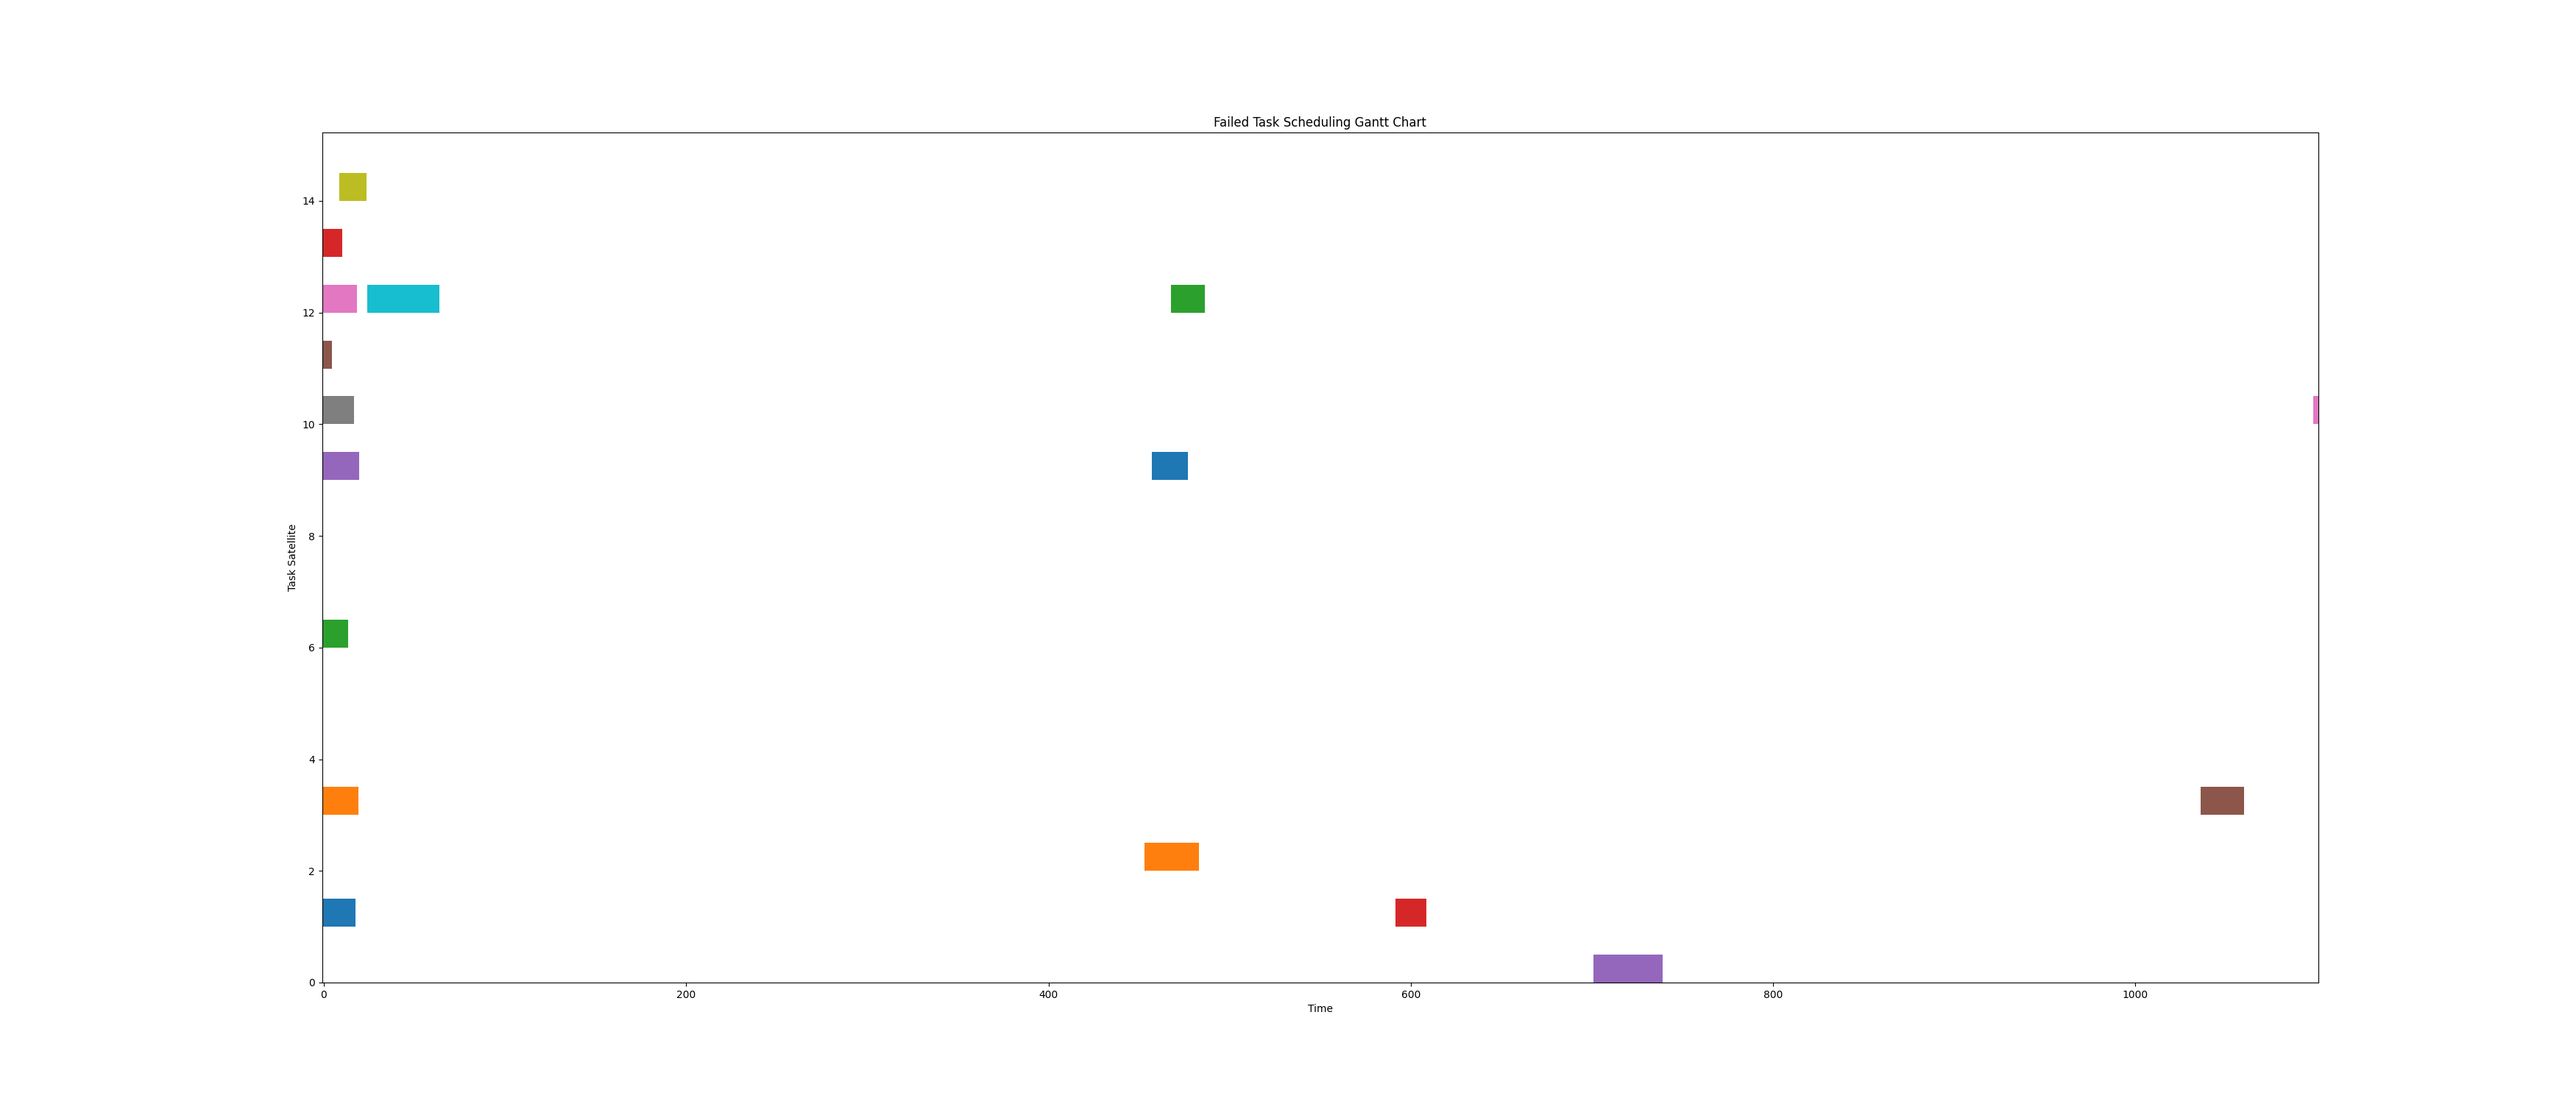
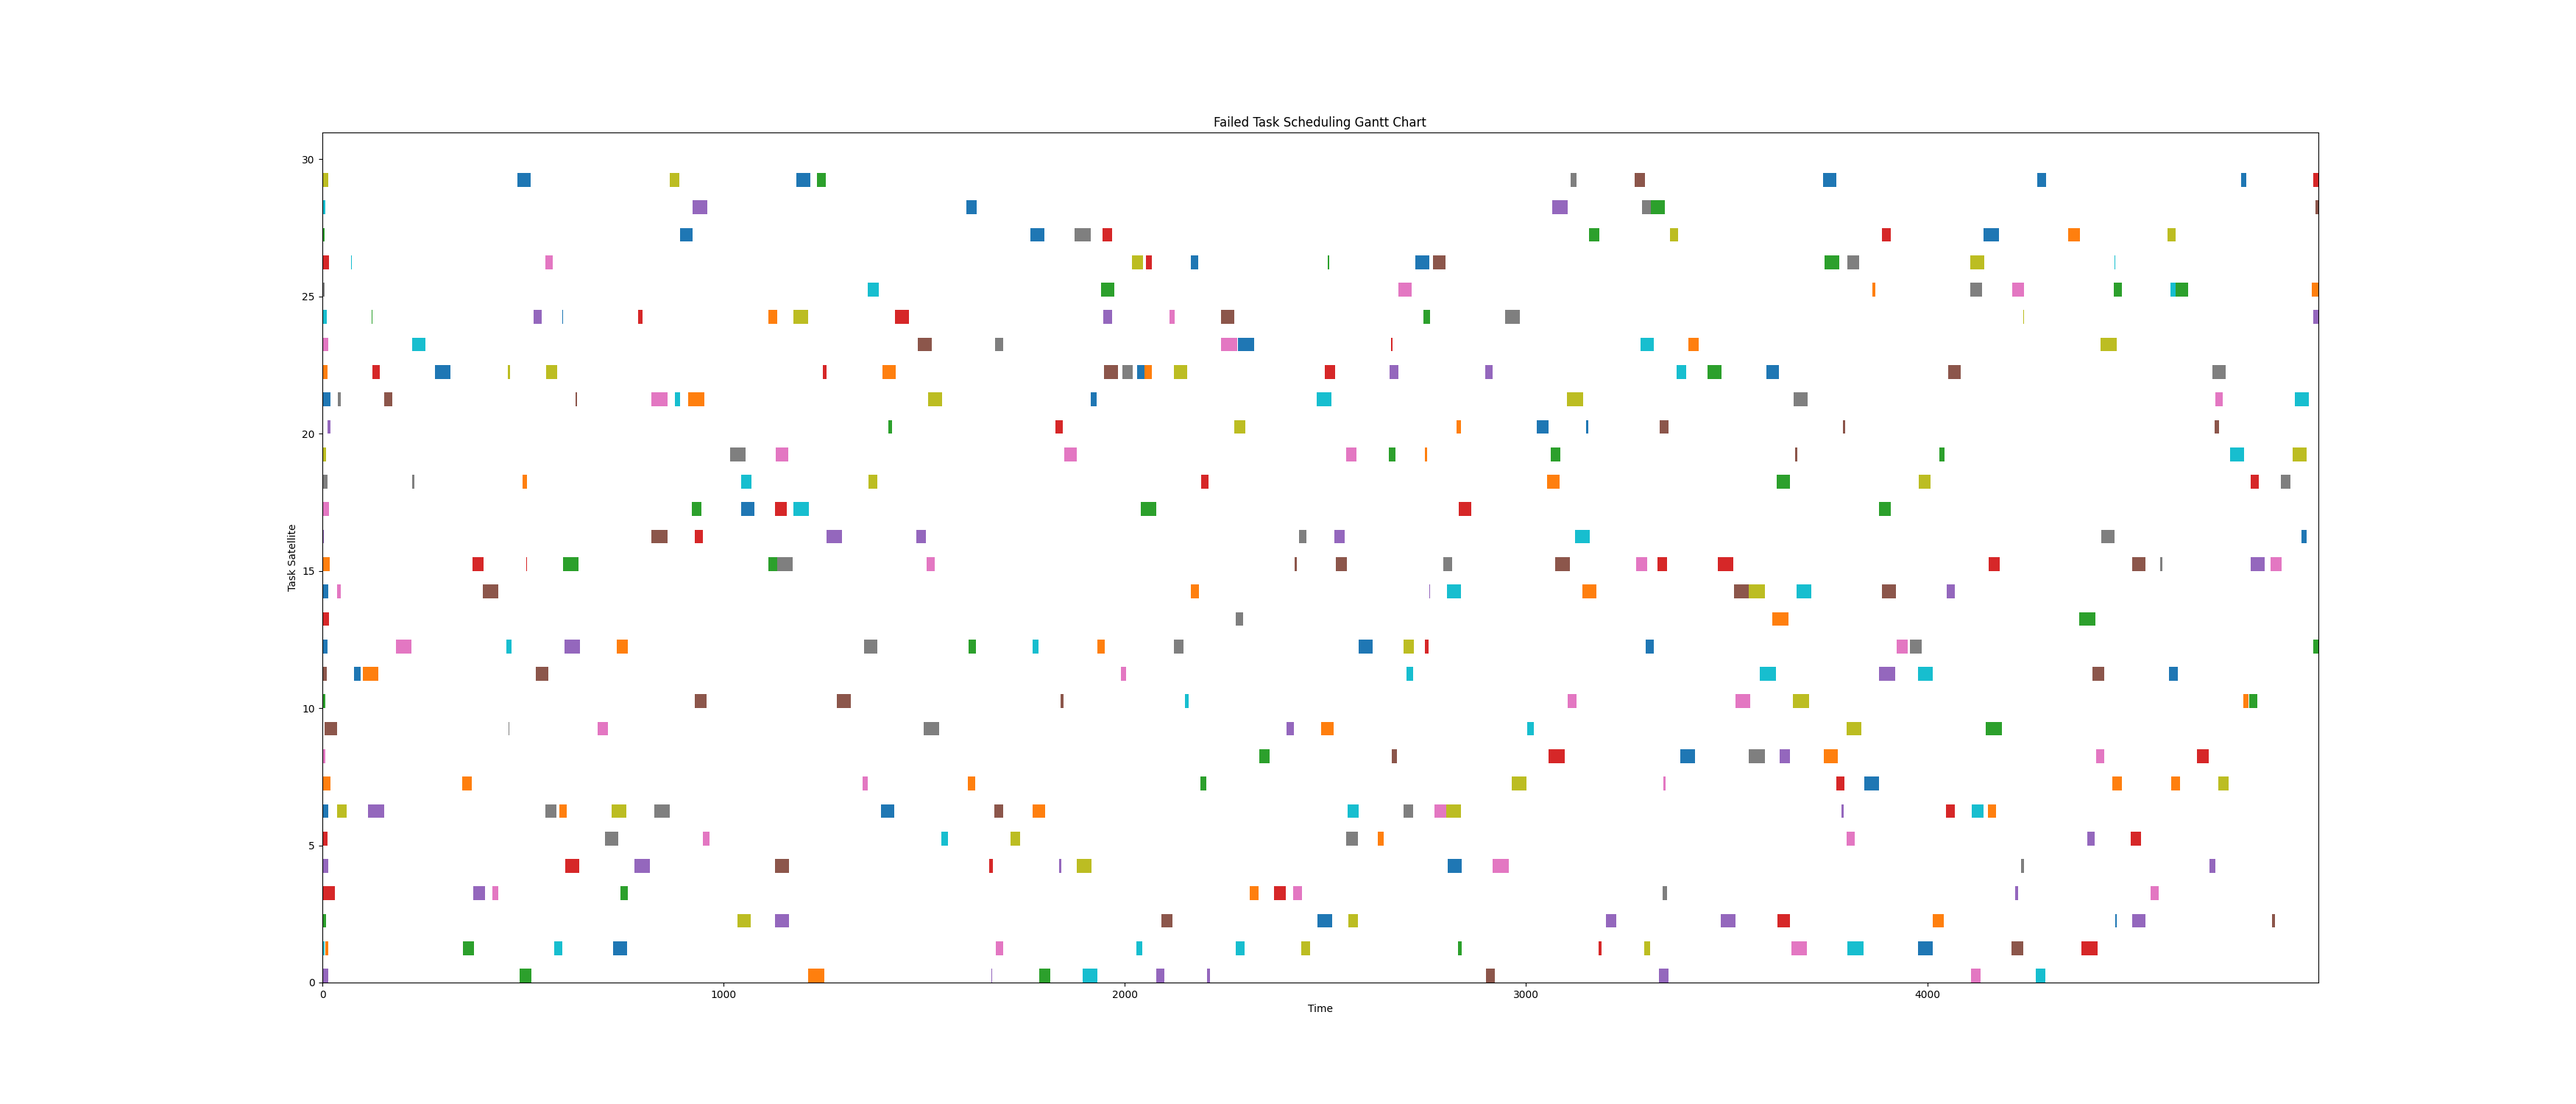
增加充电部分

diff --git a/simulator/Env.py b/simulator/Env.py
@@ -1,6 +1,7 @@
 from __future__ import annotations
 
-from random import random
+import random
+random.seed(0)
 from typing import Tuple, Dict, Any
 
 import gymnasium as gym
@@ -109,13 +110,13 @@ class SatelliteTaskSchedulingEnv(gym.Env):
             done = True
         if done:
             return np.concatenate([self.state[np.newaxis, :], self.state[np.newaxis, :]], axis=0), reward, done, True,\
-                {'reward': reward, 'is_success': success, 'priority': task.priority}
+                {'reward': reward, 'is_success': success, 'priority': task.priority, 'if_switch': if_switch}
 
         # 根据下一个task计算下一个state
         next_state = self.get_next_state()
 
         return np.concatenate([self.state[np.newaxis, :], next_state[np.newaxis, :]], axis=0), reward, done, False, \
-            {'reward': reward, 'is_success': success, 'priority': task.priority}
+            {'reward': reward, 'is_success': success, 'priority': task.priority, 'if_switch': if_switch}
 
     def reset(
             self,
@@ -152,7 +153,7 @@ class SatelliteTaskSchedulingEnv(gym.Env):
                                       'last_ts': -1})
                 else:  # random
                     satellite.append(
-                        {'E_left': random() % (self.config.INIT_ENERGY - self.config.E_MIN) + self.config.E_MIN,
+                        {'E_left': random.random() % (self.config.INIT_ENERGY - self.config.INIT_ENERGY / 2) + self.config.E_MIN,
                          'E_min': self.config.E_MIN,
                          'last_ts': -1})
             satellites.append(satellite)
@@ -187,11 +188,24 @@ class SatelliteTaskSchedulingEnv(gym.Env):
         task = self.tasks[self.cur_task]
         for i in range(self.rs_num):
             for j in range(self.beam_num):
+                # 检查是否有足够的能量
+                if self.rs_list[i][j]['E_left'] - task.energy < self.min_E:
+                    self.charge_energy(i, j, task.start_time - self.horizon_start)
+                    next_state[i][j][:] = 1
+                    continue
                 # 将不可能的时间段设为1
                 next_state[i][j][0:task.start_time - self.horizon_start] = 1
                 next_state[i][j][task.end_time - self.horizon_start:] = 1
         # next_state 是当前task所有可能执行的时间段
         return next_state
+
+    def charge_energy(self, i, j, start_time_in_horizon):
+        # 充电
+        self.rs_list[i][j]['E_left'] = self.config.INIT_ENERGY
+        # 充电时间设为30
+        charge_time = min(30, self.d_grids - start_time_in_horizon)
+        # 设置不可执行task的时间段
+        self.state[i][j][start_time_in_horizon:start_time_in_horizon + charge_time] = 1
 
     def show_info(self):
         # For Debug

diff --git a/evaluator.py b/evaluator.py
@@ -14,6 +14,7 @@ def evaluate_model(model_path):  # success rate, priority sum,
     total_reward = 0.0
     total_success = 0
     total_priority = 0
+    total_switch = 0
     total_success_priority = 0
     while True:
         action, _states = model.predict(obs, deterministic=True)
@@ -23,6 +24,7 @@ def evaluate_model(model_path):  # success rate, priority sum,
         total_reward += reward
         total_success += info['is_success']
         total_priority += info['priority']
+        total_switch += info['if_switch']
         total_success_priority += info['priority'] * info['is_success']
 
         if terminated or truncated:
@@ -30,6 +32,7 @@ def evaluate_model(model_path):  # success rate, priority sum,
             print("Average reward: ", total_reward / total_step)
             print("Success rate: ", total_success / total_step)
             print("Success priority: ", total_success_priority, '/', total_priority)
+            print("Total switch: ", total_switch)
             env.show_info()
             return
 

diff --git a/config/default.py b/config/default.py
@@ -3,11 +3,11 @@ class Config:
     RS_NUM = 6
     BEAM_NUM = 4
     E_MIN = 40   # minimum energy
-    ENERGY_POLICY = 'full'  # how to initialize energy   ['random', 'full']
-    INIT_ENERGY = 4000
+    ENERGY_POLICY = 'random'  # how to initialize energy   ['random', 'full']
+    INIT_ENERGY = 400
 
     # Task Satellites
-    TS_NUM = 15
+    TS_NUM = 30
 
     # Tasks
     MAX_PRIORITY = 10
@@ -16,4 +16,4 @@ class Config:
 
     # Time Window
     D_GRIDS = 100  # how many grids in a horizon
-    TOTAL_TIME = 1000  # total time of simulation
+    TOTAL_TIME = 5000  # total time of simulation

diff --git a/simulator/Task.py b/simulator/Task.py
@@ -1,5 +1,5 @@
 import random
-
+random.seed(0)
 
 class Task:
     def __init__(self, ts_id, priority, start_time, end_time, time, E):
